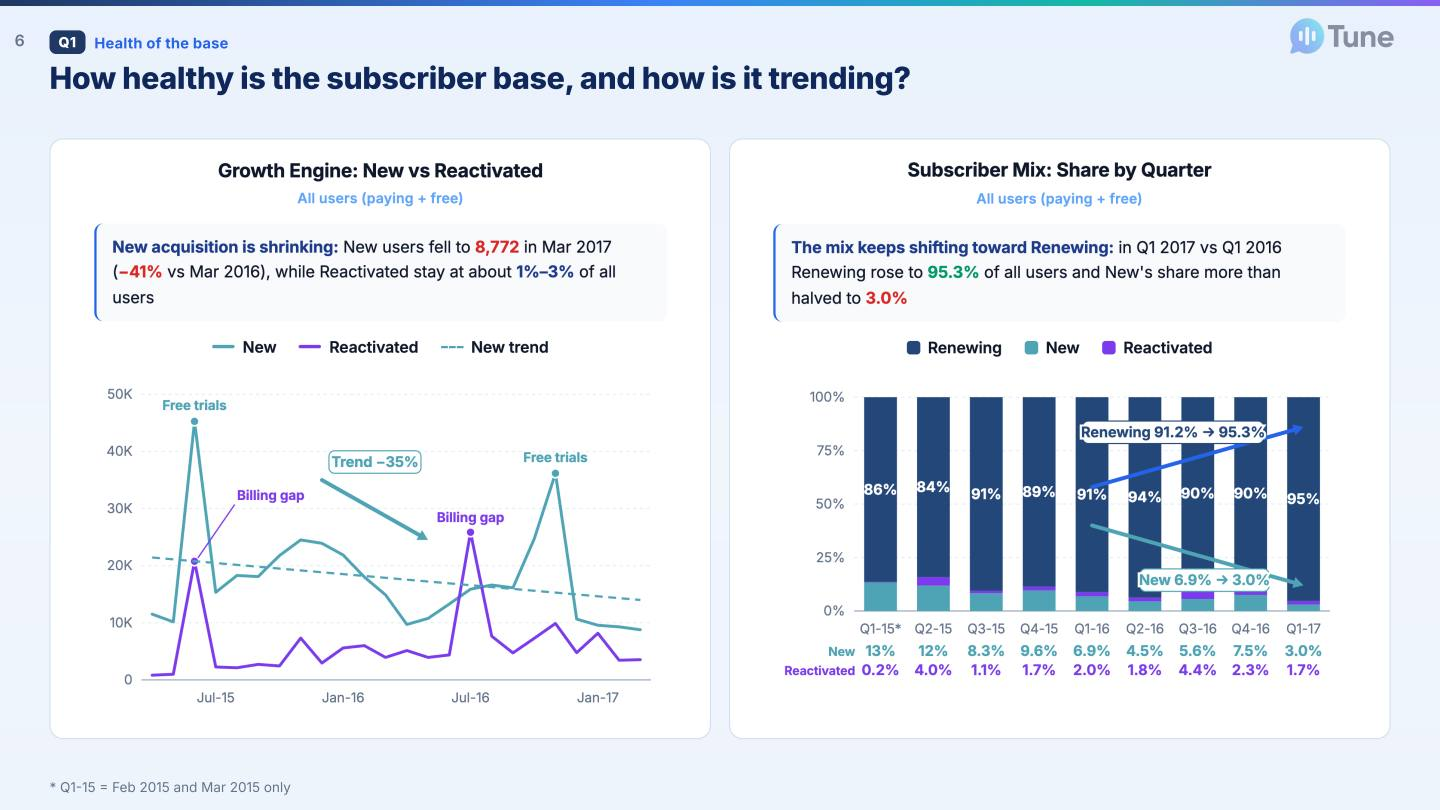
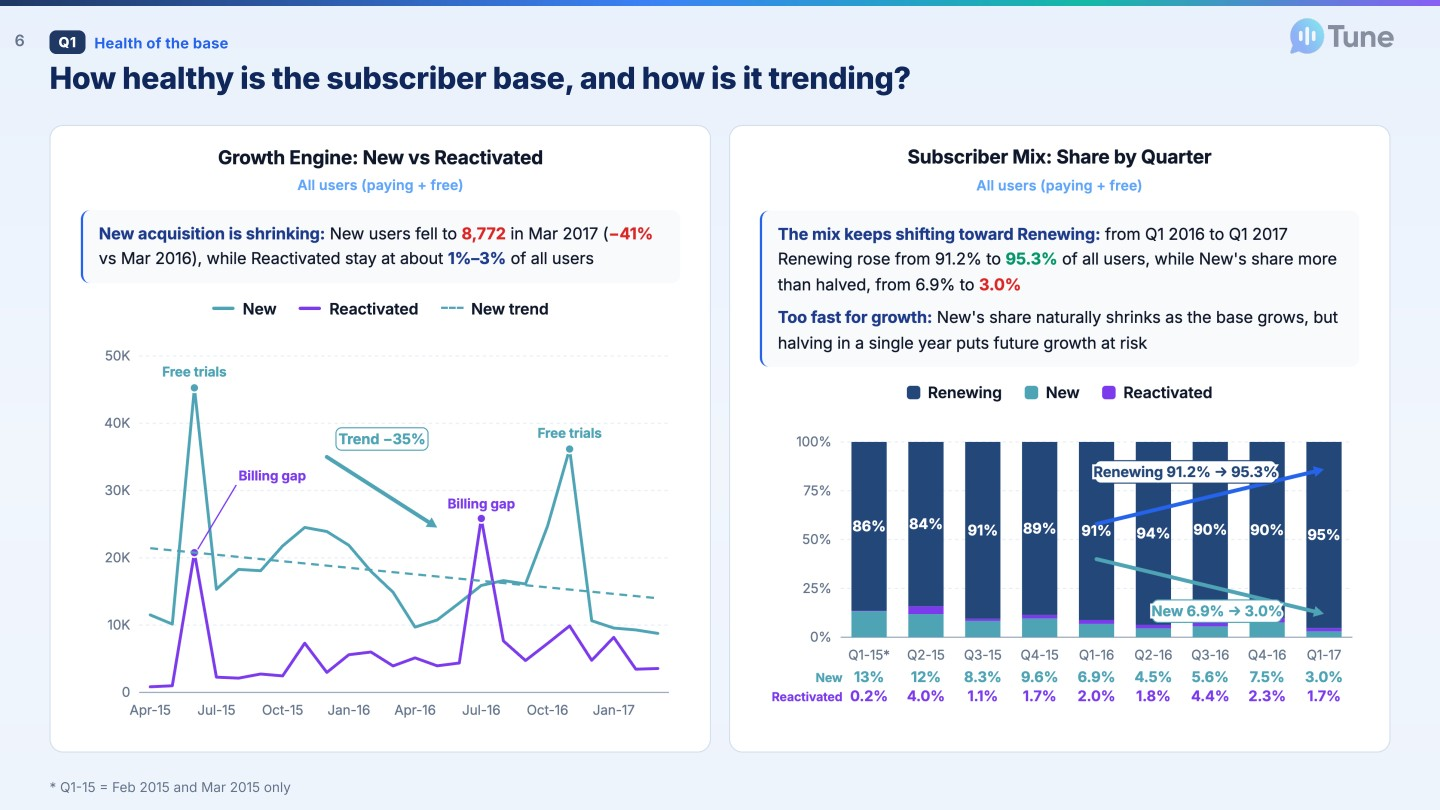
Deck slide 6: wider charts with a date every 3 months, Renewing and New from Q1 2016 to Q1 2017, a line on why the shift is a growth risk

diff --git a/index.html b/index.html
@@ -3698,7 +3698,7 @@ const ISSUES = { raw_users: "U1-U11: age 0 or out of range, gender missing, regi
   raw_churn_labels: "L4-L7: labels don't match a naive 'due in March' population" };
 
 // ---------------- tabs ----------------
-const DECKV = "1118s18d";  // change on every deck update so browsers load the new slide images, not a cached copy
+const DECKV = "1118v6";  // change on every deck update so browsers load the new slide images, not a cached copy
 const GROUPS = {
   intro: [["overview", "Overview"]],
   p1: [["dq", "1a · Data quality"], ["lineage", "1b.1 · Clean layer & data model"], ["explorer", "1b.2 · Explorer & SQL"], ["churn", "1c · Churn check"]],
